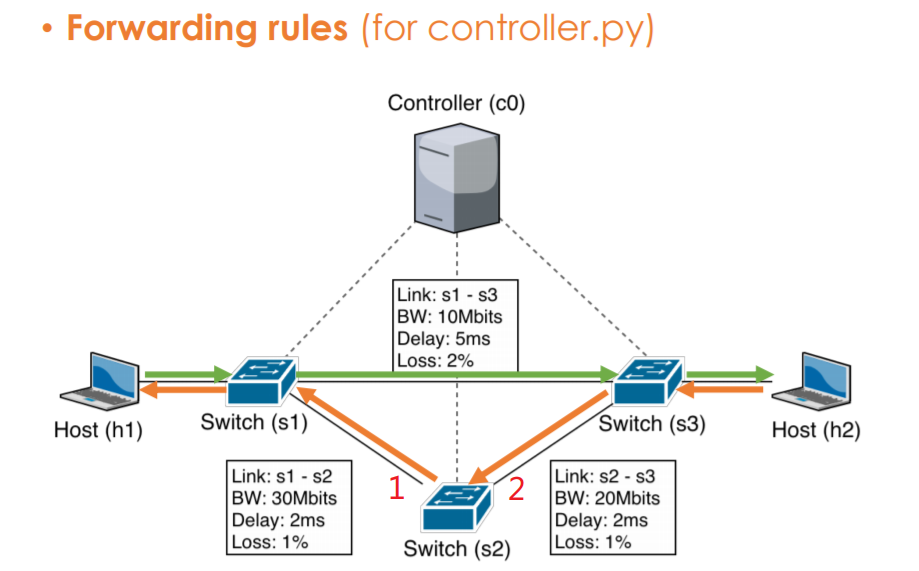
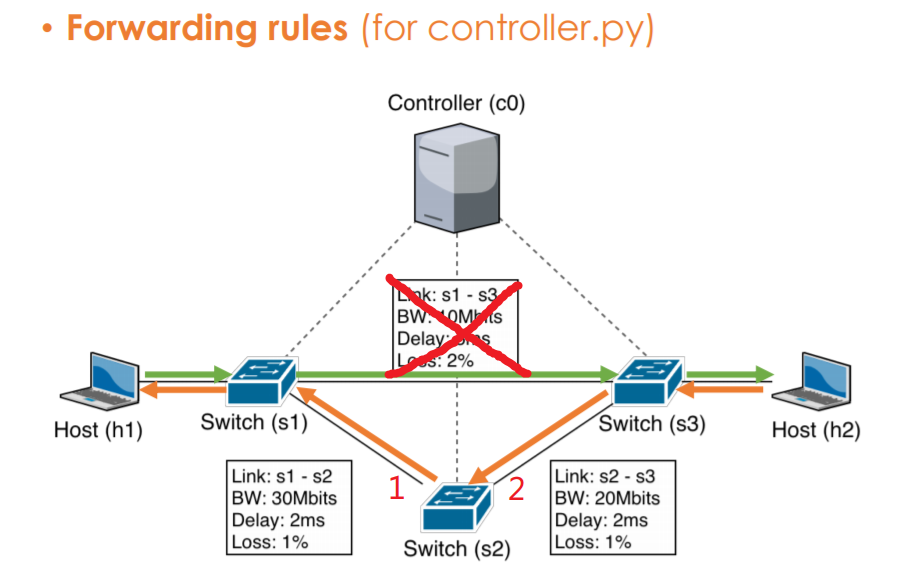
Fix the GODDAMN topo & report

diff --git a/src/topo.py b/src/topo.py
@@ -18,10 +18,10 @@ class Topology(Topo):
         # Add links into topology
         self.addLink(s1, h1, port1=1, port2=1)
         self.addLink(s3, h2, port1=1, port2=1)
-        # Add constraints(bw,delay,loss) by ./topo/topo.png
-        self.addLink(s1, s3, port1=3, port2=2, bw = 10, delay='5ms', loss = 2)
-        self.addLink(s1, s2, port1=2, port2=1, bw = 30, delay='2ms', loss = 1)
-        self.addLink(s3, s2, port1=3, port2=2, bw = 20, delay='2ms', loss = 1)
+        # Add constraints(bw,delay,loss) by ./topo/topo.jpg
+        self.addLink(s1, s3, port1=3, port2=2, bw=3, delay='10ms', loss=3)
+        self.addLink(s1, s2, port1=2, port2=1, bw=30, delay='2ms', loss=1)
+        self.addLink(s3, s2, port1=3, port2=2, bw=20, delay='2ms', loss=1)
       
 
 topos = {

diff --git a/README.md b/README.md
@@ -15,7 +15,7 @@ In this lab, we are going to write a Python program with Ryu SDN framework to bu
 
 ---
 ## Execution
-> create network topology accroding to ./src/topo/topo.png\
+> create network topology accroding to ./src/topo/topo.jpg\
 > Execute in the Ubuntu container(mininet & python & Ryu-Manager installed)\
 > To enter the container, use following commands:\
 > `$ ssh -p 16077 root@140.113.195.69`(password=1234)\
@@ -132,10 +132,10 @@ Then use `$ mn -c` to clean it up (it would also terminate the Ryu-manager)
     1. Build the topology via Mininet\
     First, duplicate the example code SimpleTopo.py and name it topo.py\
     `$ cp SimpleTopo.py topo.py`\
-    Add the constraints (e.g., bandwidth, delay, and loss rate) by Route_Configuration/src/topo/topo.png
-    ![topo](./src/topo/topo.png)
+    Add the constraints (e.g., bandwidth, delay, and loss rate) by Route_Configuration/src/topo/topo.jpg
+    ![topo](./src/topo/topo.jpg)
     Here's an example code about creating link s1-s3\
-    `self.addLink(s1, s3, port1=3, port2=2, bw=10, delay='5ms', loss=2)`
+    `self.addLink(s1, s3, port1=3, port2=2, bw=3, delay='10ms', loss=3)`
     2. Test our topo.py with SimpleController.py\
     Run topo.py in one terminal first\
     `$ mn --custom topo.py --topo topo --link tc --controller remote`\
@@ -190,15 +190,15 @@ Then use `$ mn -c` to clean it up (it would also terminate the Ryu-manager)
     For **packet-in**, it means transfering the received packets to the controller\
     For **packet-out**, it means transfering the packets forwarded by the controller from the specified port
 2. What is “table-miss” in SDN?
-   When the Flow Table could not find any Flow Entry meeting the rules, the situation is called “table-miss”\
+   When the packet is sent into the switch, if the Flow Table could not find any Flow Entry meeting the rules in the packet, the situation is called “table-miss”\
    When “table-miss” happens, it would run the existing method created for “table-miss”\
    You can consider table-miss Entry a Flow Entry that **matches all situation**(probably using wildcard) and has the **lowest priority**(which is 0)
 3. Why is "`(app_manager.RyuApp)`" adding after the declaration of class in `controller.py`?\
-   `class xxx(ooo):` means we create class `xxx` inhereting class `ooo`\
+   `class xxx(ooo):` means we create class `xxx` inhereting parent class `ooo`\
    In this case, we create the class `SimpleController1` by inheriting the class `ryu.base.app_manager.RyuApp`, which is **the base class for Ryu applications**
 4. Explain the following code in `controller.py`.
     ```python
-    @set_ev_cls(ofp_event.EventOFPPacketIn, CONFIG_DISPATCHER)
+    @set_ev_cls(ofp_event.EventOFPPacketIn, MAIN_DISPATCHER)
     ```
     **What is decorator?**
     ```python
@@ -213,9 +213,9 @@ Then use `$ mn -c` to clean it up (it would also terminate the Ryu-manager)
     is **a decorator for Ryu application to declare an event handler**\
     Decorated method will become an event handler.
     - `ev_cls` is an event class whose instances this RyuApp wants to receive\
-    In this case, we want `ofp_event.EventOFPPacketIn`, which means events of packet-in.(decorator used on `def packet_in_handler(self, ev):`)
+    In this case, we want `ofp_event.EventOFPPacketIn`, which means **events of packet-in**.(decorator used on `def packet_in_handler(self, ev):`)
     - `dispatchers` argument specifies one of the negotiation phases (or a list of them) for which events should be generated for this handler\
-    In this case, `CONFIG_DISPATCHER` means the negotiation phase that version negotiated and sending features-request message
+    In this case, `MAIN_DISPATCHER` means the negotiation phase that **switch-features message received and sending set-config message**
 
 5. What is the meaning of “datapath” in `controller.py`?\
    “datapath” means **the switch in the topology using OpenFlow**
@@ -235,13 +235,14 @@ Then use `$ mn -c` to clean it up (it would also terminate the Ryu-manager)
     In SimpleController.py s3 directly forwards datagrams to switch s1(s3->s1)\
     Link **s1<->s3** has lower bandwidth & higher delay, loss rate than both link **s1<->s2** and link **s2<->s3**
     > **Bandwidth comparison**:\
-    > min(s1<->s2, s2<->s3)=**20Mbps > 10Mbs**=s3->s1\
+    > min(s1<->s2, s2<->s3)=**20Mbps > 3Mbs**=s3->s1\
     > **Delay**:\
-    > s3->s2->s1=2ms+2ms=**4ms < 5ms**=s3->s1\
+    > s3->s2->s1=2ms+2ms=**4ms < 10ms**=s3->s1\
     > **Data completeness**:\
-    > s3->s2->s1 99%*99%=**98.01% > 98%**=s3->s1
+    > s3->s2->s1 99%*99%=**98.01% > 97%**=s3->s1
 
-    So it's easy to tell **the forwarding rule in controller.py is better**, which use the link s1<->s2 and link s2<->s3
+    Theoretically speaking, **the forwarding rule in controller.py is better**, which use the link s1<->s2 and link s2<->s3
+    ##### Since there is only a total of 1MB packets transfered, so you can't see huge difference between result1 & result2(SimpleController.py & controller.py) #
 ---
 ## References
 
